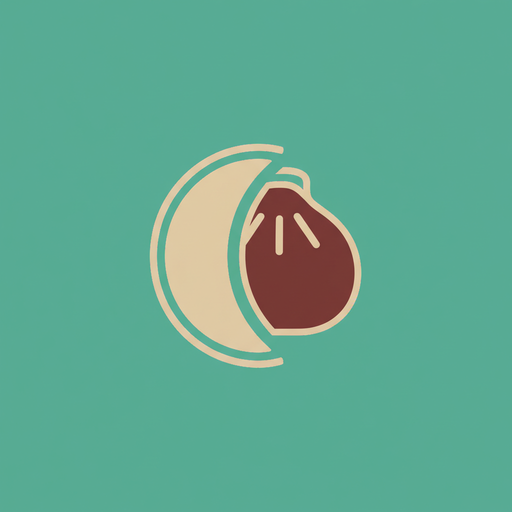
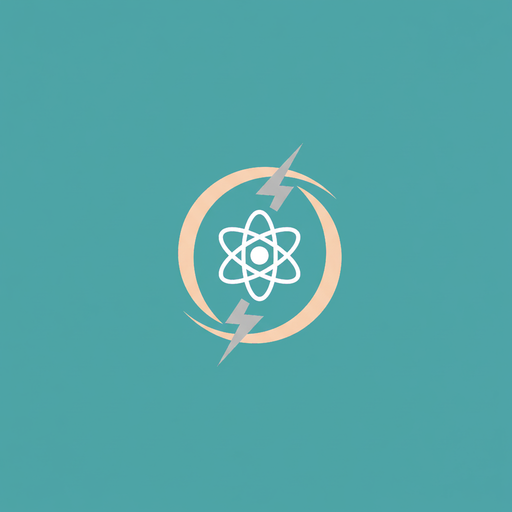
🔨 Rebrand Bun-Template to Electron-Template
Update package metadata, README, scripts docs, entrypoint log, and refreshed media assets to reflect the Electron-Template rebrand.

Changed region(s): [[0.2812, 0.2812, 0.7188, 0.7188]]

diff --git a/src/index.ts b/src/index.ts
@@ -1,5 +1,5 @@
 import { globalConfig } from "@/config";
 
-console.log("Hello from Bun-Template!");
+console.log("Hello from Electron-Template!");
 console.log(`Config loaded: ${globalConfig.exampleParent.exampleChild}`);
 console.log(`Running on: ${globalConfig.runningOn}`);

diff --git a/README.md b/README.md
@@ -1,11 +1,11 @@
-# bun-template
+# electron-template
 
 <p align="center">
-  <img src="media/banner.png" alt="Bun-Template" width="400">
+  <img src="media/banner.png" alt="Electron-Template" width="400">
 </p>
 
 <p align="center">
-<b>🥟 Agent-ergonomic opinionated Bun template</b>
+<b>⚛ Agent-ergonomic opinionated Electron template</b>
 </p>
 
 <p align="center">
@@ -17,16 +17,16 @@
 </p>
 
 <p align="center">
-  <img alt="Project Version" src="https://img.shields.io/badge/dynamic/json?url=https%3A%2F%2Fraw.githubusercontent.com%2FMiyamura80%2FBun-Template%2Fmain%2Fpackage.json&query=%24.version&label=version&color=blue">
+  <img alt="Project Version" src="https://img.shields.io/badge/dynamic/json?url=https%3A%2F%2Fraw.githubusercontent.com%2FMiyamura80%2FElectron-Template%2Fmain%2Fpackage.json&query=%24.version&label=version&color=blue">
   <img alt="Bun" src="https://img.shields.io/badge/runtime-bun-f9f1e1?logo=bun">
-  <img alt="GitHub repo size" src="https://img.shields.io/github/repo-size/Miyamura80/Bun-Template">
-  <img alt="GitHub Actions Workflow Status" src="https://img.shields.io/github/actions/workflow/status/Miyamura80/Bun-Template/ci_checks.yaml?branch=main">
+  <img alt="GitHub repo size" src="https://img.shields.io/github/repo-size/Miyamura80/Electron-Template">
+  <img alt="GitHub Actions Workflow Status" src="https://img.shields.io/github/actions/workflow/status/Miyamura80/Electron-Template/ci_checks.yaml?branch=main">
 </p>
 
 ---
 
 <p align="center">
-  <img src="media/demo.gif" alt="Bun-Template Demo" width="600">
+  <img src="media/demo.gif" alt="Electron-Template Demo" width="600">
 </p>
 
 ## Key Features
@@ -95,8 +95,8 @@ globalConfig.features.newUi;
 
 ## About the Core Contributors
 
-<a href="https://github.com/Miyamura80/Bun-Template/graphs/contributors">
-  <img src="https://contrib.rocks/image?repo=Miyamura80/Bun-Template" />
+<a href="https://github.com/Miyamura80/Electron-Template/graphs/contributors">
+  <img src="https://contrib.rocks/image?repo=Miyamura80/Electron-Template" />
 </a>
 
 Made with [contrib.rocks](https://contrib.rocks).

diff --git a/scripts/README.md b/scripts/README.md
@@ -1,6 +1,6 @@
 # Scripts
 
-Utility and initialization scripts for the Bun-Template project.
+Utility and initialization scripts for the Electron-Template project.
 
 ## Asset Generation
 
